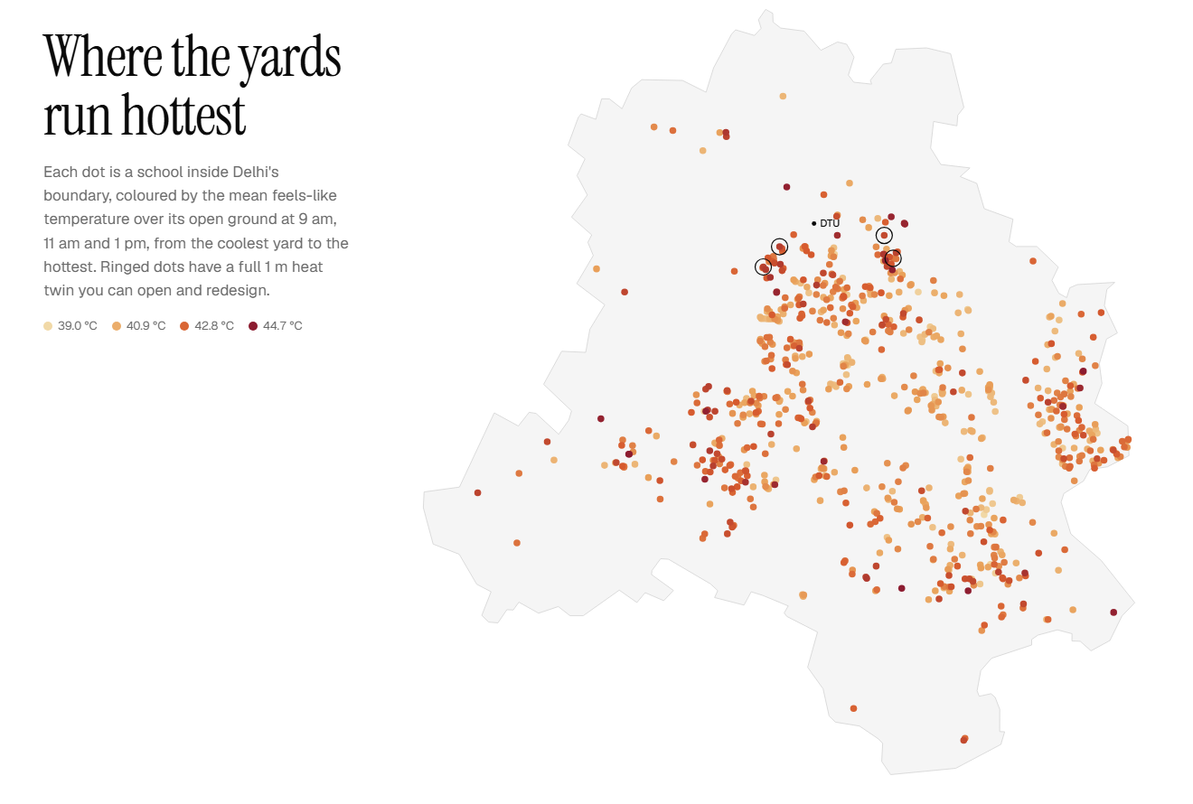
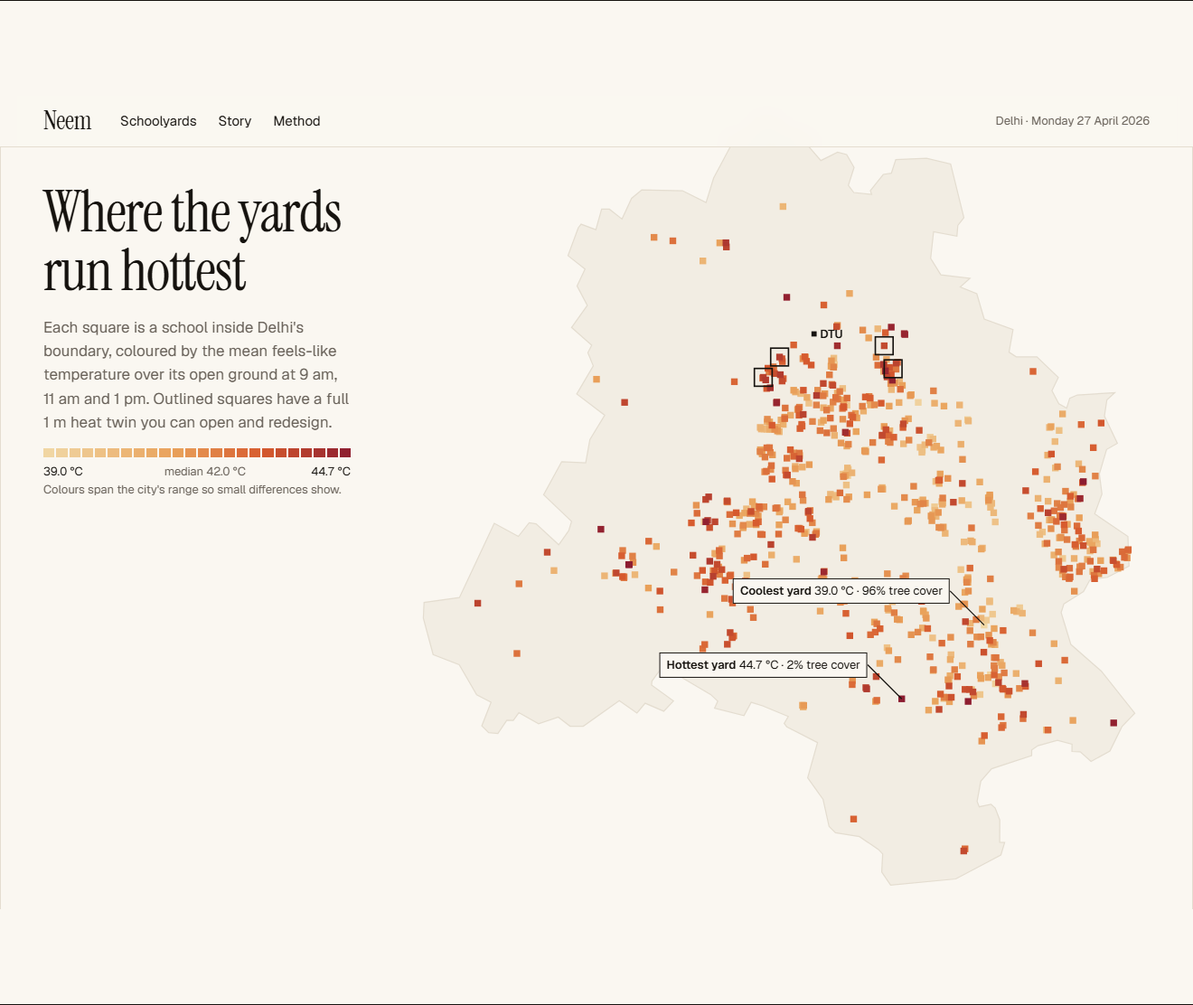
submission, blog and status; fresh screenshots

diff --git a/docs/SUBMISSION.md b/docs/SUBMISSION.md
@@ -1,0 +1,90 @@
+# Neem
+
+A heat model of Delhi's schoolyards for the WeMakeDevs x AWS Environmental Hacks, Heat & Water track (Build It). Live at [neem-lemon.vercel.app](https://neem-lemon.vercel.app); code at [github.com/riteshroshann/neem](https://github.com/riteshroshann/neem). Submitted by Ritesh Roshan.
+
+## The problem
+
+On Monday 27 April 2026, the hottest school day before Delhi's summer vacation, the air reached 42.2 °C. A child in an open yard feels more than the air. At 1 pm, at the centre of the open yard of Kendriya Vidyalaya Sector 25 in Rohini, the air was 42.1 °C, but sun and heat from baked ground and walls pushed the mean radiant temperature to 67.2 °C. With 14% humidity and a 3.6 m/s wind, that feels like 47.3 °C (UTCI), past the 46 °C threshold for extreme heat stress. Neem's model of a nine-year-old on the morning shift there loses 877 ml of water by 12:45. A principal can plant trees or put up shade, but on a fixed budget, without knowing which square metres matter or what a tree is worth in degrees.
+
+## What Neem does
+
+Neem shows how hot a schoolyard feels to a child on a heatwave day, and what trees and shade would change, before anyone digs. It ranks 766 Delhi schoolyards by heat, from SOLWEIG runs at 2 m for 9 am, 11 am and 1 pm. Four government schools near Delhi Technological University (DTU) have full heat twins at 1 m, hour by hour from 7 am to 1 pm, each with a child body model and a browser planner for trees and shade sails. A planning agent proposes a plan within a budget, and SOLWEIG verifies it.
+
+The home page opens on an Earth drawn in square cells and lit by the sun exactly as the model used it for the 1 pm hour (12:30 IST, from the repository's NOAA solar code): straight overhead just off the Karnataka coast, 75° above the yard in Rohini. It zooms from Delhi to one yard, one square metre and one child, then a slider compares SOLWEIG's maps of that yard before and after the agent's 85 neems. A long-form story at [/story](https://neem-lemon.vercel.app/story) walks through all of it with live figures.
+
+## How it works
+
+The data is open, and mostly on AWS. Buildings come from Overture Maps on S3: only 3 of the release's 512 files overlap Delhi, so Neem picks them from the STAC catalogue and loads 1.9 million footprints in two minutes. Canopy heights come from Meta and WRI on AWS Open Data, ground from the Copernicus 30 m DEM, schools from OpenStreetMap and weather from ERA5 via Open-Meteo.
+
+The physics is SOLWEIG, the UMEP radiation model used in urban climate research. For a person at each grid cell it traces sun and shadow from buildings and crowns, sky light, and heat radiated by ground and walls, giving mean radiant temperature and then UTCI. A school takes about 4 seconds on the laptop GPU.
+
+The child is JOS-3, a 17-segment thermoregulation model scaled to a nine-year-old (1.32 m, 28 kg) and walked minute by minute through the morning shift. Its set points come from adults, so Neem reports the core rise above rest and the water lost, as indicative figures.
+
+The planner is a Strands agent on qwen3 4B, served by Ollama on the laptop. The model picks how many trees, which species and whether a sail is worth it; its tools choose where, enforce the budget, preview and verify, so every figure in its answer comes from a tool.
+
+Verification has two tiers. The browser preview recasts shadows and predicts the change from the physics run in about 10 ms. Untouched squares keep SOLWEIG's value; where a design acts, the preview can be off by about 4 to 5 °C at midday, and the page says by how much. "Verify with physics" re-runs SOLWEIG and the child's day on a worker. Tests pin the tiers together: the shadow caster matches SOLWEIG on more than 97% of cells, and the preview's mean error against SOLWEIG stays under 1 °C on a design it has never seen. All 63 fast and 4 slow SOLWEIG tests in Python and 15 TypeScript tests pass.
+
+The architecture is a lake of plain files on S3, queried in place with DuckDB, plus a FastAPI service, an SQS worker and job state in DynamoDB. AWS sits behind ports whose boto3 adapters take an endpoint URL, so the same code runs against LocalStack. The public site is static Astro on Vercel.
+
+## The four AWS open-source tools
+
+Strands Agents SDK runs the planner in `packages/neem-agent/src/neem_agent/planner.py`: five tools bound to one school, with `qwen3:4b` through Strands' Ollama provider. The budget is a hard limit inside `plant_trees`, and if the model skips `verify`, the code runs it.
+
+AWS SAM CLI builds the stack described in `infra/template.yaml`: an S3 lake, a DynamoDB jobs table, SQS with a dead-letter queue, an API Lambda, a worker Lambda on SQS, and a Step Functions Distributed Map that ranks schools on up to 100 Lambdas at once, all built from one Dockerfile. `sam local invoke` runs the worker and ranking functions on the laptop with events from `infra/events/`, and `sam local start-api` serves the API: the worker takes the demo job from queued to done against LocalStack with numbers identical to the in-process run.
+
+LocalStack 4.14, the last open-source release, emulates S3, SQS, DynamoDB and Step Functions (`infra/compose.yaml`, `just localstack`), and `packages/neem-worker/src/neem_worker/bootstrap.py` seeds the lake into its S3. Running the stack locally caught two bugs the in-process moto tests had missed: DynamoDB rejects float attributes, and SAM's emulator needs a root build user.
+
+Cedar, through `cedarpy` in `packages/neem-api/src/neem_api/authz.py`, enforces `packages/neem-api/src/neem_api/policies/neem.cedar`. Anyone may view twins and request verification within 200 trees, 40 sails and 20 jobs per identity per hour. Only a school's own planner may approve its plan, and a `forbid` stops everyone, administrators included, from approving one SOLWEIG has not verified.
+
+## Results
+
+Neem modelled 766 schoolyards for 27 April 2026; 26 more had no open ground to model. Tree canopy and yard heat correlate at r = −0.95, and one yard in three (34%) spends more than a quarter of the school morning above 46 °C UTCI. Under the same weather, mean yard heat at 9 am, 11 am and 1 pm runs from 39.0 to 44.7 °C, median 42.0 °C.
+
+The agent planned each twin within ₹3,00,000, and SOLWEIG verified every plan:
+
+| School | Plan | Cost | Yard at 1 pm | Child's peak core rise | Water lost by 12:45 |
+|---|---|---|---|---|---|
+| Kendriya Vidyalaya, Sector 25, Rohini | 85 neems | ₹2,97,500 | 46.6 → 44.8 °C | 0.93 → 0.82 °C | 877 → 843 ml |
+| School of Specialised Excellence | 85 neems | ₹2,97,500 | 46.6 → 43.5 °C | 0.93 → 0.76 °C | 875 → 822 ml |
+| MCD Primary School | 62 neems, one 3 × 3 m sail | ₹2,33,200 | 46.6 → 43.1 °C | 0.92 → 0.75 °C | 867 → 820 ml |
+| Rani Chenamma Sarvodaya Kanya Vidyalaya | 85 neems | ₹2,97,500 | 45.6 → 44.2 °C | 0.86 → 0.78 °C | 852 → 829 ml |
+
+At 1 pm, the same 85 neems take 3.1 °C off the School of Specialised Excellence, with 5,691 m² of open ground, and 1.8 °C off Kendriya Vidyalaya, with 11,397 m². MCD Primary had room for only 62 neems, so the agent added a sail. The preview's 1 pm yard mean landed within 0.6 °C of SOLWEIG in all four plans, and the new `neem-data verify-plan` command re-ran every stored plan through SOLWEIG and reproduced every number exactly.
+
+## Open data and licences
+
+Neem is GPL-3.0-or-later, copyright 2026 Ritesh Roshan, because SOLWEIG and UMEP are GPL-3.0. It builds on pythermalcomfort and JOS-3 (MIT), Overture Maps (ODbL), Meta and WRI canopy height (CC BY 4.0), OpenStreetMap (ODbL), the Copernicus DEM and ERA5 via Open-Meteo. It stores no personal data.
+
+## Run it locally
+
+You need uv, just, Bun, Docker, SAM CLI and Ollama; SOLWEIG falls back to the CPU without a GPU. Developed on Windows 11 with PowerShell 7.
+
+```sh
+uv sync; just check
+cd web; bun install; bun run dev           # the site on :4321
+```
+
+From the repository root, rebuild the lake (`data/`, not in git) from public sources, then plan, verify and serve:
+
+```sh
+just ingest; uv run neem-data weather; just rank
+just scene osm-w1321574340; uv run neem-data twin osm-w1321574340
+ollama pull qwen3:4b; just plan osm-w1321574340
+uv run neem-data verify-plan; just publish
+uv run neem-api                            # :8000, for "Verify with physics"
+```
+
+The serverless stack, on LocalStack:
+
+```sh
+docker network create neem; just localstack; docker network connect neem neem-localstack
+just seed; just sam-build; just sam-worker
+```
+
+## What is next
+
+Measured building heights come first: only about 0.5% of Delhi's buildings carry a height or floor count in open data. The `recon/` package turns a phone video of an empty yard into measured heights on the 1 m grid, with VGGT; running it on real yards is next. Then more 1 m twins, a body model built for children, and the Ship It path: the same SAM template on AWS, with Cognito identities for Cedar.
+
+## AI tools used
+
+Claude Code was used as a coding assistant during development. The product itself uses Strands Agents with Ollama running qwen3:4b locally for the planning agent.

diff --git a/docs/BLOG.md b/docs/BLOG.md
@@ -1,0 +1,73 @@
+# The air said 42 °C. The schoolyard said 47.
+
+*How I built Neem: a heat map of 766 Delhi schoolyards, a body twin for the children who play in them, and a planning agent that has to prove its trees work.*
+
+Ritesh Roshan · 11 October 2026 · read it with live figures at [neem-lemon.vercel.app/story](https://neem-lemon.vercel.app/story)
+
+![The Earth drawn in square cells, lit by the sun as the model saw it for the 1 pm hour in Delhi](https://neem-lemon.vercel.app/og.png)
+
+It's half past twelve on Monday 27 April 2026, the hottest school day Delhi had between April and the summer holidays. At Kendriya Vidyalaya, Sector 25, Rohini, the bell goes and the morning shift heads home across the open yard.
+
+The weather report for that hour says 42 °C. Dry, too: 14% humidity and a 3.6 m/s breeze.
+
+Nobody in that yard feels the air. They feel the sun, 75° up and leaving almost nowhere to hide, and the heat pouring back off ground and walls that have been soaking it up since sunrise. Add all of that together and the mean radiant temperature on one square metre at the centre of the yard is 67.2 °C. The feels-like temperature, the UTCI that heat-health researchers use, is 47.3 °C. Extreme heat stress starts at 46.
+
+Now rewind to 7:30. Assembly in the yard. Class from 7:50. Recess at ten: half an hour of running about in the sun. Class again, then the walk home. Neem follows a nine-year-old through that morning minute by minute, and recess alone lifts their core temperature from 0.14 °C above rest to 0.93 °C. By 12:45 they have sweated and breathed out 877 ml of water. Nearly a litre, before lunch.
+
+The teachers who stand in that yard know all this in their bones. What nobody has is an answer to the next question. If we plant trees, which ones, where, and how much cooler will it be? A neem costs about ₹3,500 and takes five years to grow a proper crown, which is a long time to wait to learn you planted it in the wrong spot. I built Neem so a school can find out first.
+
+## Heat, the way a body feels it
+
+A thermometer measures air. A body is busier than that: it soaks up direct sun, the glow of the sky and every warm surface in sight. So Neem runs SOLWEIG, the radiation model Fredrik Lindberg and colleagues built at the University of Gothenburg. For every square metre of a yard it works out where the sun falls, where buildings and tree crowns throw shade, how much sky each spot can see and how much heat the ground and walls give back. On my laptop's 6 GB GPU, one school takes about four seconds.
+
+Everything it needs is open, and most of it already lives on AWS. Buildings come from Overture Maps: only 3 of the release's 512 files overlap Delhi, so Neem asks the STAC catalogue for those three and reads 1.9 million footprints in two minutes. Tree heights come from the canopy map Meta and WRI publish on AWS Open Data, the ground from Copernicus, the schools from OpenStreetMap's volunteers and the weather from ERA5 through Open-Meteo. This project is mostly their work, carefully rearranged.
+
+## What 766 yards say
+
+Then Neem ranks the city: 766 schoolyards, modelled at 2 m for 9 am, 11 am and 1 pm, in about ten minutes. Every yard sat under the same sky that Monday, so whatever separates them was built or planted there.
+
+It's shade. The leafiest quarter of yards, with 68% tree cover over open ground, averaged 40.5 °C. The barest quarter, at 15%, averaged 43.3 °C. Across all 766, tree cover and yard heat correlate at r = −0.95. And one yard in three spent more than a quarter of the school morning above 46 °C.
+
+## One square metre at a time
+
+Four government schools near DTU get the full treatment: a heat twin at 1 m, hour by hour from 7 am to 1 pm. Open one and plant neem, peepal, jamun or amaltas, or rig up a shade sail, and the map changes under your cursor.
+
+SOLWEIG can't keep up with a mouse, so the browser takes an honest shortcut. A TypeScript preview recasts the shadows and predicts the change from the physics in about ten milliseconds. Squares you haven't touched keep SOLWEIG's exact value, and where you plant, the page tells you how far off the preview might be. When you like what you see, "Verify with physics" hands the design to the real model.
+
+The child is JOS-3, a 17-segment model of how a body keeps its temperature, from Yoshito Takahashi and colleagues, run through Federico Tartarini's pythermalcomfort and scaled to a 1.32 m, 28 kg nine-year-old. It was built from adults, so Neem reports the rise above the child's own resting state and says plainly that its numbers are indicative.
+
+## An agent that has to show its work
+
+The planner is a Strands agent running qwen3 4B through Ollama, on the same laptop. It gets a school, a budget and five tools, plus one rule I enforce in code: it doesn't get to make numbers up.
+
+The model decides how many trees, which species and whether a sail is worth the money. The tools do the rest. They read the school's brief, plant on the hottest open ground a crown's width apart, add a sail, preview, and verify. The budget lives inside the planting tool, because a model can talk its way past a flag but not past a function that says no.
+
+Small models wander, and this one did. Once it answered from imagination without calling a single tool. Once it sailed past the budget. Both are guarded now, and if it forgets to verify, the code verifies for it.
+
+**Physics gets the last word.**
+
+At KV Sector 25, with ₹3 lakh to spend, the agent planted 85 neems for ₹2,97,500. SOLWEIG checked the plan: at 1 pm the yard drops from 46.6 °C to 44.8 °C, the child's peak core rise from 0.93 °C to 0.82 °C, and the water lost from 877 to 843 ml. At the School of Specialised Excellence, where the open ground is half the size, the same 85 neems take 3.1 °C off.
+
+![The yard at 1 pm today: nearly all of it in extreme heat stress](https://neem-lemon.vercel.app/twins/osm-w1321574340/map-1pm.png)
+
+![The same yard with 85 neems: their shade breaks it into cooler pools](https://neem-lemon.vercel.app/twins/osm-w1321574340/map-1pm-plan.png)
+
+## Trust, then check again
+
+Every number on the site has to trace back to a run I can repeat. Tests set independent pieces against each other: my shadow caster agrees with SOLWEIG on more than 97% of cells, and the preview's average error stays under 1 °C on a design it was never calibrated on. Those tests earned their keep. One caught SOLWEIG quietly rewriting the arrays it was handed. Another caught DynamoDB refusing floating-point numbers.
+
+The last check is the simplest. A command called `verify-plan` runs every plan the agent has made through SOLWEIG again, from scratch. All four came back identical, down to the child's minute-by-minute core temperature.
+
+## AWS open source, on one laptop
+
+The hackathon's Build It track asks for AWS's open-source tools on your own machine, and Neem leans on four. Strands Agents runs the planner. AWS SAM describes the serverless shape, from the API and worker Lambdas to a Step Functions map that can rank schools on a hundred Lambdas at once, and runs those same functions locally. LocalStack plays S3, SQS, DynamoDB and Step Functions underneath. Cedar writes the rules down: anyone can explore, physics runs come with a fair-use budget, and nobody, not even an admin, can approve a plan that physics hasn't verified.
+
+The home page opens on the Earth, drawn in the same square cells as the yard maps and lit by the sun as the model saw it that hour: straight overhead just off the Karnataka coast, near Bhatkal. From there it zooms to Delhi, to one yard, to one square metre and to one child.
+
+## What's next
+
+Open data knows the height of only about 0.5% of Delhi's buildings, so the next step is a phone: a short video of an empty yard, turned into measured heights on the same 1 m grid. After that, more schools, a body model built for children rather than scaled down from adults, and the same SAM template running on AWS for real.
+
+If you teach in a yard like this, run a school or plant trees for a living, I'd love to know what Neem gets wrong. The code is open under GPL-3.0 at [github.com/riteshroshann/neem](https://github.com/riteshroshann/neem), and every plan on the site can be re-run.
+
+85 neems. ₹2,97,500. 1.8 °C off a schoolyard at 1 pm. Every one of those numbers came out of a physics run, and every one comes back the same when you run it again.

diff --git a/docs/STATUS.md b/docs/STATUS.md
@@ -1,6 +1,6 @@
 # Neem: status and handoff
 
-Last updated: Sat 10 Oct 2026, about 8:15 PM IST. Deadline: **Sun 11 Oct 2026, 8:00 PM IST** (WeMakeDevs x AWS Environmental Hacks, Heat & Water track). Submission = public repo + 3-minute YouTube video (AWS tooling visible on screen) + short writeup listing AI tools used.
+Last updated: Sun 11 Oct 2026, about 9:00 AM IST. Deadline: **Sun 11 Oct 2026, 8:00 PM IST** (WeMakeDevs x AWS Environmental Hacks, Heat & Water track). Submission = public repo + 3-minute YouTube video (AWS tooling visible on screen) + short writeup listing AI tools used (ready: `docs/SUBMISSION.md`).
 
 Track chosen: **Build It** (AWS open-source tools, on the machine, no AWS account). Tools in use: **Strands Agents SDK, SAM CLI, LocalStack, Cedar**. Ship It (real AWS deploy) is optional later and needs an account; `infra/template.yaml` is ready for it.
 
@@ -17,9 +17,11 @@ Track chosen: **Build It** (AWS open-source tools, on the machine, no AWS accoun
 - API (`neem-api`): FastAPI, job ports (files+threads / DynamoDB+SQS), **Cedar** authorization (`policies/neem.cedar` + schema): anyone explores; verification has a size and rate budget; only a school's planner approves, only verified plans. Token identity table (`NEEM_DEV_TOKENS`) stands in for Cognito.
 - Worker (`neem-worker`): SQS loop + Lambda handler; bootstrap creates table, queue, lake bucket, seeds the lake, queues a demo job.
 - Planner agent (`neem-agent`): **Strands Agents** + Ollama `qwen3:4b` on the GPU. Tools: brief, plant_trees (hottest-first placement, budget enforced in the tool), add_shade_sail, preview, verify. Plans saved to `lake/plans/` and published.
-- Web (`web/`): editorial site (index with dot map and ranking, school pages with the planner island, method page). T0 ported to TypeScript and pinned to Python by a shared-fixture differential test. "Load Neem's plan" shows the agent's verified plan on the public site.
+- Web (`web/`): one theme, everything drawn in square cells like the 1 m physics grid. Home: a cell-drawn Earth lit by the model's sun for the 1 pm hour (subsolar point from `neem_core.sun.subsolar_point`), a four-panel zoom (Delhi, one yard, one square metre, one child), a before/after slider of real SOLWEIG maps for the agent's plan, a pipeline strip naming the AWS tools, the city map with the hottest and coolest yards annotated, the twins and a searchable ranking. `/story` is the long-form writeup with live figures. Neem branches hang into the top corners and a schoolyard strip tops the footer (`tools/cell_art.py`). School pages: planner island (trees only on open ground, honest verify state on the static site), child chart. Every number is read from `src/data/*.json` or `public/twins/*`, written by `neem-data publish`.
+- Palette: colour anchors and the UTCI heat-stress bands are separate (`neem_core.palette.BANDS`: 26 moderate, 32 strong, 38 very strong, 46 extreme), mirrored in `web/src/lib/palette.ts` and tested on both sides.
+- `neem-data verify-plan`: re-runs every stored agent plan through SOLWEIG and keeps the field (`runs/{id}/{day}-plan`); it reproduced every stored verified number exactly. `publish` draws the plan map and writes `showcase.json`.
 - Infra: `infra/Dockerfile` (one image; Lambda Web Adapter; awslambdaric), `infra/compose.yaml` (LocalStack 4.14 + bootstrap + api + 2 workers), `infra/template.yaml` (**SAM**: S3, DynamoDB, SQS+DLQ, API Lambda + HTTP API, worker Lambda on SQS, rank + collect Lambdas, Step Functions Distributed Map), `infra/sam-env.json`, `infra/events/*.json`. `sam validate` passes; `sam build` succeeds.
-- Tests: 47 fast Python (property, differential, contract against moto, Cedar policy and HTTP), 4 slow SOLWEIG, 9 TypeScript. ADRs 0001 to 0010.
+- Tests: 63 fast Python (property, differential, contract against moto, Cedar policy and HTTP, palette bands, publish), 4 slow SOLWEIG, 15 TypeScript. ADRs 0001 to 0010. Lighthouse on the production build: home 99/100/100/100, story, method 100 across, school 98/100/100/100. QA sweep: no horizontal scroll or console errors at 390, 768, 1280 and 1920 px.
 
 ## Results (real runs)
 
@@ -33,17 +35,18 @@ Track chosen: **Build It** (AWS open-source tools, on the machine, no AWS accoun
 
 ## In progress / known issues
 
-- `sam local invoke WorkerFunction` against LocalStack: first run reached the handler and correctly reported a batch failure (missing `libexpat`); image now installs `libexpat1 libgomp1`; rerun was building at handoff. Check: `just sam-build; just localstack; just seed; just sam-worker`.
+- SAM on LocalStack works end to end (11 Oct): `just sam-build` (fixed by a root `.dockerignore`; SAM was tarring the whole 6.5 GB repo), then `just seed; just sam-worker` takes the demo job queued -> done in 225 s on CPU (the worker timeout is now 900 s, queue visibility 960 s), `just sam-rank` returns `ok`, and `just sam-api` serves `/health` and `/schools`. Step Functions on LocalStack is not yet tried.
 - T0 preview error where a design acts is about 4 to 5 C at midday (exact elsewhere); the UI states the band, and verified agent plans show preview vs physics (e.g. 45.3 vs 44.8).
 - Overture heights: about 0.5% coverage; footprint prior elsewhere.
 - LocalStack pinned to 4.14 (last open-source; 2026.x requires a token).
 
 ## Pending, in order
 
-1. Confirm the SAM worker run end to end; optionally `sam local start-api` and a Step Functions run on LocalStack.
-2. 3D moonshot (`recon/`, ADR 0007): needs the user's 60 to 90 s video of an empty courtyard. Not started.
-3. Video (3 min): problem 20 s (headline, 47 C), product 90 s (map, plant, verify, child chart, agent plan), tooling 40 s (Strands agent run in terminal, Cedar policy + 403, `sam local invoke` against LocalStack), impact 30 s (r = -0.95, 766 schools). Writeup listing AI tools. Builder Center blog.
-4. Make the repo public; polish README with the vibe skill.
+1. **Video (3 min)**, see `docs/VIDEO.md`. Run `just seed` first so `just sam-worker` visibly takes the demo job from queued to done; start `just sam-api` early (warm containers are on).
+2. **Make the repo public**, then submit: repo link, video link and the writeup in `docs/SUBMISSION.md`.
+3. **Builder Center blog**: `docs/BLOG.md` (the same story as `/story`, with images from the live site).
+4. 3D moonshot (`recon/`, ADR 0007): needs a 60 to 90 s video of an empty courtyard. Not started.
+5. After the hackathon: rotate the Resend key; optionally try Step Functions on LocalStack.
 
 ## How to resume
 

diff --git a/README.md b/README.md
@@ -4,7 +4,7 @@
 
 Neem works out how hot every square metre of a Delhi schoolyard feels to a child on a heatwave day. Then it shows what a few lakh rupees of neem trees would change, before anyone picks up a spade.
 
-Live: **[neem-lemon.vercel.app](https://neem-lemon.vercel.app)**
+Live: **[neem-lemon.vercel.app](https://neem-lemon.vercel.app)** · the story behind it: **[/story](https://neem-lemon.vercel.app/story)**
 
 ![Neem home page](docs/img/home.png)
 
@@ -14,7 +14,7 @@ On Monday 27 April 2026, Delhi's hottest school day before the summer break, we 
 
 ![Delhi schoolyards by heat](docs/img/map.png)
 
-- **Tree canopy explains almost everything.** Across schools, canopy and yard heat correlate at r = −0.95.
+- **Tree canopy explains almost everything.** The leafiest quarter of yards (68% tree cover) runs 2.8 °C cooler than the barest (15%), and across all 766, canopy and yard heat correlate at r = −0.95.
 - **One yard in three** spends more than a quarter of the school morning in extreme heat stress: a feels-like temperature (UTCI) above 46 °C.
 - **At Kendriya Vidyalaya Sector 25 in Rohini**, 2.9 km from DTU, a nine-year-old on the morning shift loses about **877 ml** of water. Their core temperature climbs 0.93 °C above rest by 12:45.
 
@@ -48,7 +48,7 @@ Neem's planner proposed 85 neems there for ₹2,97,500. SOLWEIG then verified th
 ## Run it
 
 ```sh
-uv sync && just check            # Python: lint, types, 47 tests
+uv sync && just check            # Python: lint, types, 63 tests
 cd web && bun install && bun run dev
 uv run neem-api                  # physics API on :8000
 ```

diff --git a/docs/architecture.md b/docs/architecture.md
@@ -162,3 +162,17 @@ flowchart LR
 ### Web delivery
 
 The site is static Astro on Vercel. Twin layers, calibration, child days and agent plans are static files, so the drag-a-tree preview runs entirely in the browser. One Vercel Function sends a school's plan by email through Resend, to a recipient fixed in configuration.
+
+## Added on day three
+
+### Every number on the page has a run behind it
+
+`neem-data verify-plan` re-runs each stored planner design through SOLWEIG and keeps the field in `runs/{id}/{day}-plan/`. `publish` paints that field as the "after" map and writes `web/src/data/showcase.json`: the sun the model used for the 1 pm hour (taken at mid-hour, as `MetHour.sun` does), the subsolar point at the same instant, one square metre's inputs and the plan's numbers, all read from stored runs. The home page, the story page and the social card read from it; nothing on them is typed by hand.
+
+### Colours and categories are separate
+
+The heat ramp is a continuous colour scale with anchors at 26, 32, 38, 42 and 46 °C. The UTCI heat-stress categories (moderate from 26, strong from 32, very strong from 38, extreme from 46) live in their own list in `neem_core/palette.py`, are exported through `palette.json`, and drive every legend and band share. Tests pin both sides.
+
+### Frugal first paint
+
+School pages show the 1 pm map as an image straight away. The planner island fetches the 0.8 MB heat field only after the largest paint, so the field never sits in the page's critical path.
